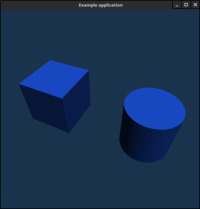
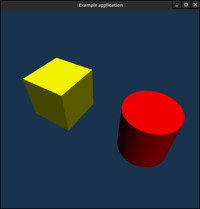
Recolor the objects in 04_cylinder.

Changed region(s): [[0.57, 0.4019, 0.93, 0.8038], [0.09, 0.2584, 0.48, 0.6316]]

diff --git a/src/cpp/04_cylinder.cpp b/src/cpp/04_cylinder.cpp
@@ -101,12 +101,13 @@ public:
       #version 330 core
       in vec3 normal;
 
+      uniform vec3 color;
+
       out vec4 fragColor;
 
       void main() {
         vec3 lightPos = normalize(vec3(0.3, 1, 0.2));
         float diffuseLighting = 0.9*max(dot(lightPos, normalize(normal)), 0.0) + 0.1;
-        vec3 color = vec3(0.1, 0.3, 0.8);
         fragColor = vec4(diffuseLighting * color, 1.0);
       })""");
     fs_source.set_source_file("example_shader.frag");
@@ -140,6 +141,7 @@ protected:
     { // Cylinder
       glm::mat4 model_mat = glm::translate(glm::mat4{1.0f}, glm::vec3{1, 0, 0});
       gl::Uniform<glm::mat4>(prog_, "mvp") = proj_mat * camera_mat * model_mat;
+      gl::Uniform<glm::vec3>(prog_, "color") = glm::vec3{1.0, 0.0, 0.0};
 
       gl::Bind(vao_);
       gl::DrawArrays(gl::PrimType::kTriangleStrip, 0, kSideVertices);
@@ -151,6 +153,7 @@ protected:
     { // Cube
       glm::mat4 model_mat = glm::translate(glm::mat4{1.0f}, glm::vec3{-1, 0, 0});
       gl::Uniform<glm::mat4>(prog_, "mvp") = proj_mat * camera_mat * model_mat;
+      gl::Uniform<glm::vec3>(prog_, "color") = glm::vec3{1.0, 1.0, 0.0};
 
       cube_shape_.render();
     }
